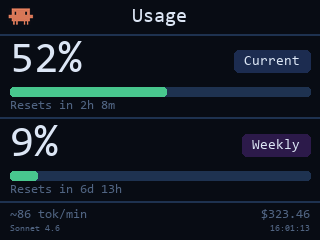
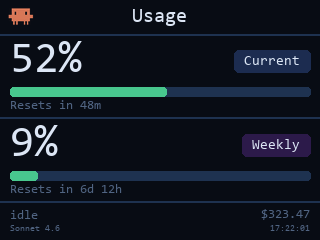
add white and dark mode

diff --git a/claude_meter/lcd.py b/claude_meter/lcd.py
@@ -32,6 +32,7 @@ class AX206LCD:
         self.debug           = debug
         self.flip_horizontal = flip_horizontal
         self.flip_vertical   = flip_vertical
+        self._connected      = False
         self._connect()
 
     def _connect(self):
@@ -59,7 +60,23 @@ class AX206LCD:
         except Exception:
             print(f"[lcd] Using default dimensions: {self.width}x{self.height}")
 
+        self._connected = True
         self.set_backlight(5)
+
+    def reconnect(self, brightness=5) -> bool:
+        """Try to re-open the USB device after a disconnect. Returns True on success."""
+        print("[lcd] Attempting reconnect...")
+        self.close()
+        try:
+            self._connect()
+            self.set_backlight(brightness)
+            self.clear()
+            print("[lcd] Reconnected successfully.")
+            return True
+        except Exception as e:
+            if self.debug:
+                print(f"[lcd] Reconnect failed: {e}")
+            return False
 
     def _scsi_command(self, cmd, data=None, direction="OUT"):
         if self.dev is None:
@@ -72,6 +89,11 @@ class AX206LCD:
 
         try:
             self.dev.write(0x01, cbw + cmd, timeout=2000)
+        except usb.core.USBError as e:
+            self._connected = False
+            if self.debug:
+                print(f"SCSI write failed (USB): {e}")
+            return False
         except Exception as e:
             if self.debug:
                 print(f"SCSI write failed: {e}")
@@ -81,6 +103,11 @@ class AX206LCD:
             if direction == "OUT":
                 try:
                     self.dev.write(0x01, data, timeout=5000)
+                except usb.core.USBError as e:
+                    self._connected = False
+                    if self.debug:
+                        print(f"Data write failed (USB): {e}")
+                    return False
                 except Exception as e:
                     if self.debug:
                         print(f"Data write failed: {e}")
@@ -89,6 +116,11 @@ class AX206LCD:
                 try:
                     read_data = self.dev.read(0x81, len(data), timeout=5000)
                     data[:len(read_data)] = read_data
+                except usb.core.USBError as e:
+                    self._connected = False
+                    if self.debug:
+                        print(f"Data read failed (USB): {e}")
+                    return False
                 except Exception as e:
                     if self.debug:
                         print(f"Data read failed: {e}")
@@ -97,6 +129,9 @@ class AX206LCD:
         try:
             csw = self.dev.read(0x81, 13, timeout=2000)
             return csw[12] == 0
+        except usb.core.USBError:
+            self._connected = False
+            return False
         except Exception:
             return True
 

diff --git a/claude_meter/__main__.py b/claude_meter/__main__.py
@@ -20,7 +20,9 @@ def push_frame(display, preview, preview_path, frame):
         display.display_image(frame)
         return True
     except Exception as e:
-        print(f"[lcd] Display error: {e}")
+        display._connected = False
+        if display.debug:
+            print(f"[lcd] Display error: {e}")
         return False
 
 
@@ -36,12 +38,19 @@ def main():
                     help="Disable horizontal flip")
     ap.add_argument("--no-flip-v", action="store_true",
                     help="Disable vertical flip")
+    theme_grp = ap.add_mutually_exclusive_group()
+    theme_grp.add_argument("--dark",  action="store_true", default=False,
+                           help="Dark theme (default)")
+    theme_grp.add_argument("--white", action="store_true", default=False,
+                           help="Light/white theme")
     ap.add_argument("--debug",          action="store_true",
                     help="Enable debug output")
     ap.add_argument("--calibrate",      action="store_true",
                     help="Set the 5h window limit to your current usage "
                          "(run when Claude tells you you've hit the limit)")
     args = ap.parse_args()
+
+    config.set_theme("white" if args.white else "dark")
 
     if args.calibrate:
         stats = parse_stats()
@@ -69,6 +78,9 @@ def main():
             print(f"Failed to initialize LCD: {e}")
             print("Falling back to preview mode...")
             args.preview = True
+
+    _reconnect_interval = 5.0  # seconds between reconnect attempts
+    _reconnect_state = [0.0]   # [last_attempt_time] — mutable so the loop can update it
 
     print(f"[claude-lcd] Watching {config.CLAUDE_DIR}")
     print(f"[claude-lcd] Mode: {'preview' if args.preview else 'LCD'}  "
@@ -113,6 +125,14 @@ def main():
     try:
         while True:
             loop_start = time.time()
+
+            # Auto-reconnect if the USB display was unplugged and re-plugged
+            if display is not None and not args.preview and not display._connected:
+                now = time.time()
+                if now - _reconnect_state[0] >= _reconnect_interval:
+                    _reconnect_state[0] = now
+                    print("[lcd] Display disconnected — reconnecting...")
+                    display.reconnect(brightness=args.brightness)
 
             with stats_lock:
                 current_stats = dict(stats)

diff --git a/claude_meter/config.py b/claude_meter/config.py
@@ -21,6 +21,29 @@ BORDER        = (30, 50, 80)
 BADGE_CURRENT = (28, 44, 80)
 BADGE_WEEKLY  = (44, 26, 74)
 
+_DARK_THEME = dict(
+    BG=(8, 12, 20), PANEL=(15, 22, 38), ACCENT=(99, 179, 237),
+    GREEN=(72, 199, 142), YELLOW=(250, 199, 70), RED=(252, 90, 90),
+    ORANGE=(255, 160, 50), WHITE=(220, 230, 245), DIM=(80, 100, 130),
+    BORDER=(30, 50, 80), BADGE_CURRENT=(28, 44, 80), BADGE_WEEKLY=(44, 26, 74),
+)
+
+_WHITE_THEME = dict(
+    BG=(242, 244, 248), PANEL=(225, 230, 240), ACCENT=(30, 120, 200),
+    GREEN=(30, 160, 90), YELLOW=(180, 130, 10), RED=(200, 50, 50),
+    ORANGE=(200, 100, 10), WHITE=(20, 25, 40), DIM=(100, 110, 135),
+    BORDER=(180, 190, 210), BADGE_CURRENT=(190, 215, 245), BADGE_WEEKLY=(210, 190, 240),
+)
+
+
+def set_theme(name: str):
+    """Apply 'dark' or 'white' theme by updating module-level color globals."""
+    import sys
+    mod = sys.modules[__name__]
+    palette = _WHITE_THEME if name == "white" else _DARK_THEME
+    for k, v in palette.items():
+        setattr(mod, k, v)
+
 _CONFIG_FILE          = Path.home() / ".claude" / "meter_config.json"
 _DEFAULT_WINDOW_LIMIT = 500_000
 

diff --git a/claude_meter/renderer.py b/claude_meter/renderer.py
@@ -161,14 +161,13 @@ def _draw_badge(d, text, right_edge, cy, font, bg):
 
 def _draw_robot(d, x, y):
     c    = (220, 70, 70)
-    dark = (10, 15, 25)
     d.rectangle([x + 4,  y,      x + 6,  y + 3],  fill=c)
     d.rectangle([x + 15, y,      x + 17, y + 3],  fill=c)
     d.rectangle([x + 3,  y,      x + 7,  y + 1],  fill=c)
     d.rectangle([x + 14, y,      x + 18, y + 1],  fill=c)
     d.rounded_rectangle([x + 1, y + 3, x + 21, y + 18], radius=2, fill=c)
-    d.rectangle([x + 4,  y + 6,  x + 9,  y + 11], fill=dark)
-    d.rectangle([x + 12, y + 6,  x + 17, y + 11], fill=dark)
+    d.rectangle([x + 4,  y + 6,  x + 9,  y + 11], fill=config.BG)
+    d.rectangle([x + 12, y + 6,  x + 17, y + 11], fill=config.BG)
     d.rectangle([x + 5,  y + 7,  x + 6,  y + 8],  fill=(255, 200, 200))
     d.rectangle([x + 13, y + 7,  x + 14, y + 8],  fill=(255, 200, 200))
 

diff --git a/README.md b/README.md
@@ -2,7 +2,7 @@
 
 > Written in Python 3.
 
-A live usage dashboard for [Claude Code](https://claude.ai/code) pushed to an AX206 USB LCD display. Shows your 5-hour and weekly token utilization, burn rate, cost, and activity state — updated every second.
+Claude Meter displays your Claude Code usage live on a small USB LCD screen. It tracks token limits, cost, and activity so you always know where you stand — without opening a browser.
 
 ![preview](preview.png)
 
@@ -77,6 +77,35 @@ python run.py --calibrate
 python run.py --debug
 ```
 
+### Themes
+
+```bash
+# Dark mode (default)
+python run.py
+
+# Explicit dark mode
+python run.py --dark
+
+# Light / white mode
+python run.py --white
+```
+
+`--dark` and `--white` are mutually exclusive. The flags work with `--preview` too, so you can check both themes without an LCD:
+
+```bash
+python run.py --preview --white
+python run.py --preview --dark
+```
+
+### Auto-reconnect
+
+If the LCD is unplugged while the meter is running, it will automatically attempt to reconnect every **5 seconds** once you plug it back in — no restart needed. You'll see:
+
+```
+[lcd] Display disconnected — reconnecting...
+[lcd] Reconnected successfully.
+```
+
 ---
 
 ## How usage is measured
@@ -131,3 +160,5 @@ run.py            — entry point
 **Percentages stuck at 100%** — Run `python run.py --calibrate` then restart normally.
 
 **`pip install pyusb` but still no USB** — On Windows, Zadig must replace the device driver with libusb-win32, not WinUSB.
+
+**Display goes blank / stops updating after unplug** — This is expected; the meter will reconnect automatically when you plug it back in. If it doesn't recover, check that the USB cable is fully seated and the Zadig driver is still assigned to the device.
